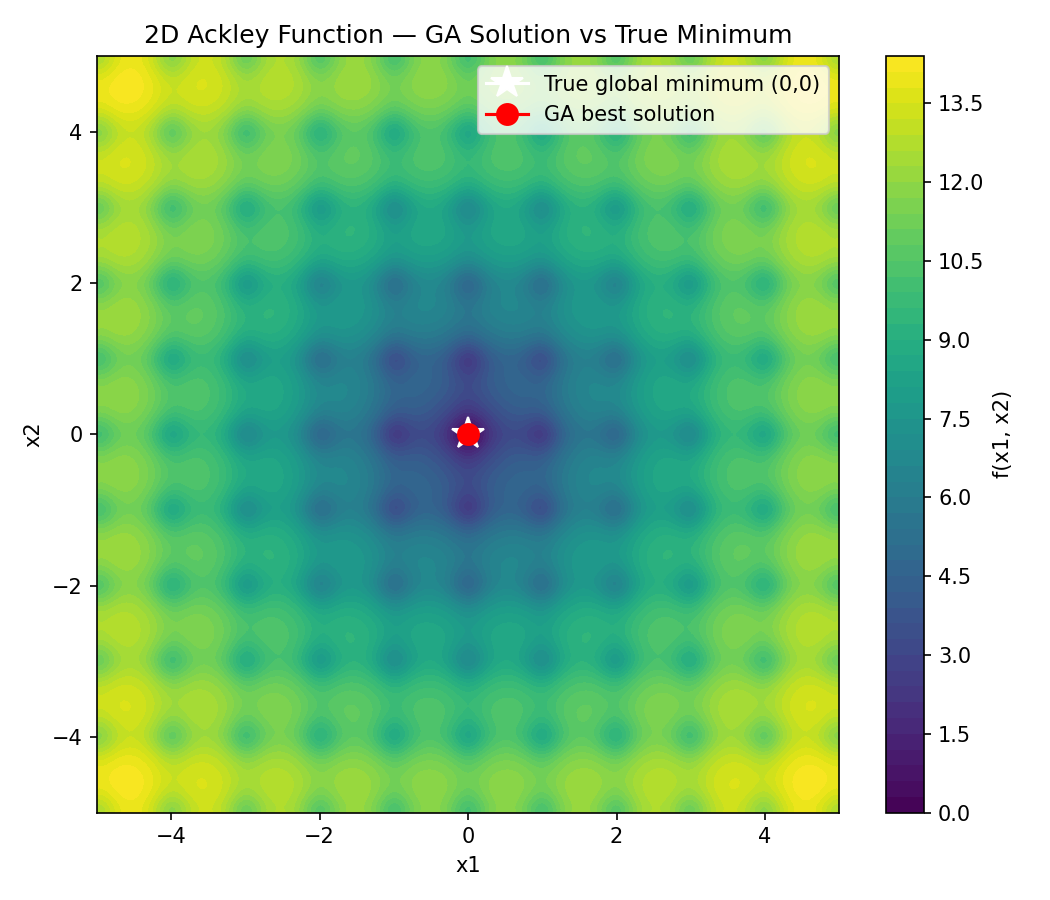
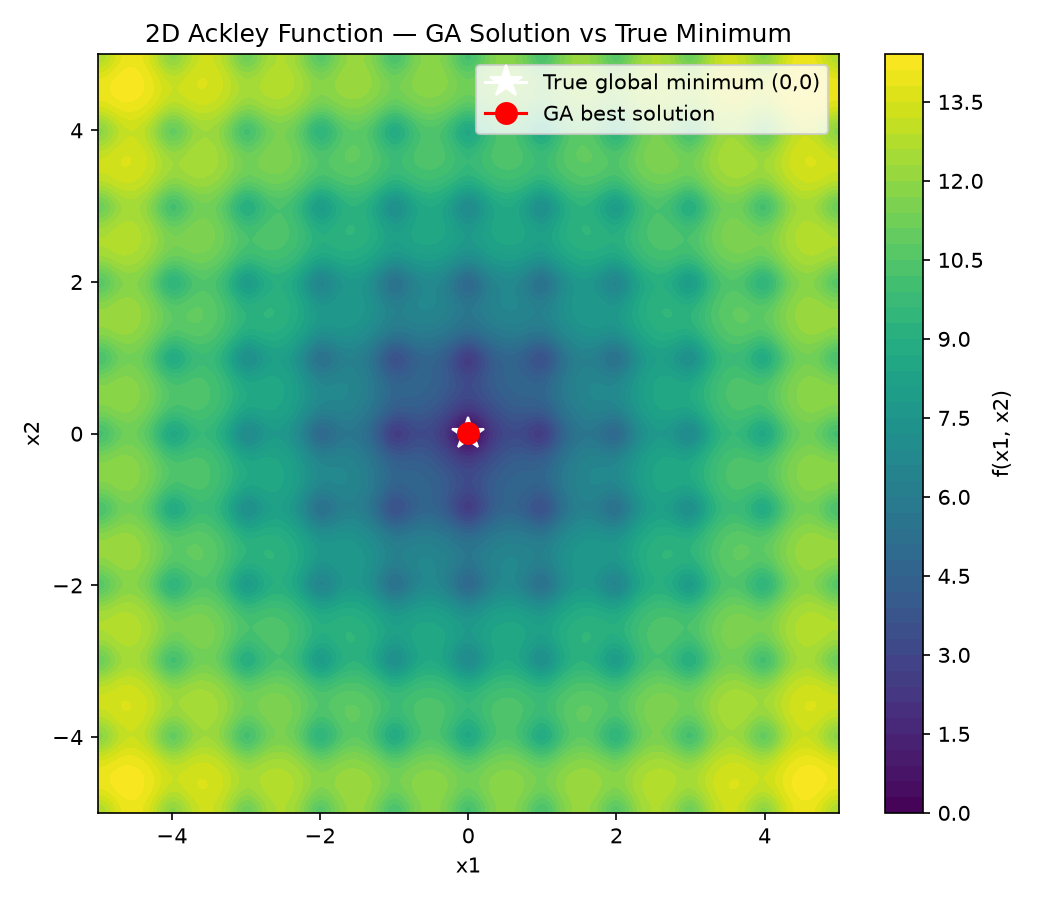
Updated

diff --git a/src/main.py b/src/main.py
@@ -11,6 +11,8 @@ GA run (20/25 generations) for reference.
 
 import json
 import os
+from pathlib import Path
+import webbrowser
 
 import matplotlib
 import matplotlib.pyplot as plt
@@ -50,9 +52,20 @@ def run_main_ga(seed: int = 42):
 
 
 def plot_convergence(result, path):
+    generations = np.arange(1, result.generations_run + 1)
     plt.figure(figsize=(8, 5))
-    plt.plot(result.history_best, label="Best fitness (so far)", linewidth=2)
-    plt.plot(result.history_mean, label="Mean population fitness", alpha=0.6)
+    plt.plot(
+        generations,
+        result.history_best,
+        label="Best fitness (so far)",
+        linewidth=2,
+    )
+    plt.plot(
+        generations,
+        result.history_mean,
+        label="Mean population fitness",
+        alpha=0.6,
+    )
     plt.axhline(
         0, color="gray", linestyle="--", linewidth=1, label="Global minimum (0)"
     )
@@ -143,6 +156,7 @@ def main():
     plot_convergence(result, convergence_path)
     plot_surface_with_solution(result, surface_path)
     print(f"\nSaved plots:\n  {convergence_path}\n  {surface_path}")
+    webbrowser.open(Path(convergence_path).resolve().as_uri())
 
     classical = classical_comparison()
     reduced = reduced_generation_ga_runs()

diff --git a/README.md b/README.md
@@ -62,6 +62,7 @@ This will:
 2. Save two plots to `src/output/`:
    - `convergence_curve.png` — best & mean fitness per generation
    - `ackley_surface_solution.png` — GA's best solution plotted on the Ackley surface, next to the true global minimum
+    The convergence graph is also opened automatically in the system's default image viewer.
 3. Run a short comparison against a classical optimizer (`scipy.optimize.minimize`, Nelder-Mead) starting from the same kind of point a GA individual might.
 4. Run two reduced-generation GA runs (20 and 25 generations) for reference, as suggested in the assignment notes.
 5. Save everything (settings, best solution, comparisons) to `src/output/run_summary.json`.
